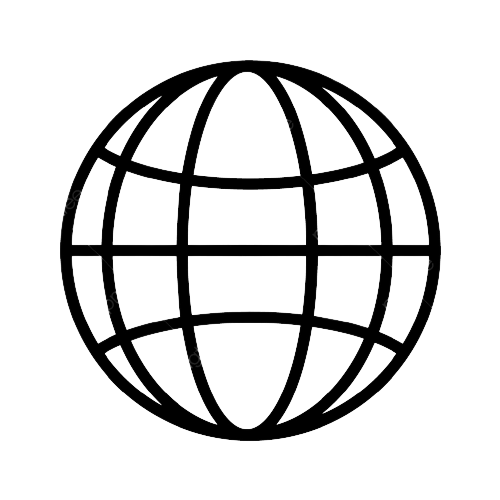
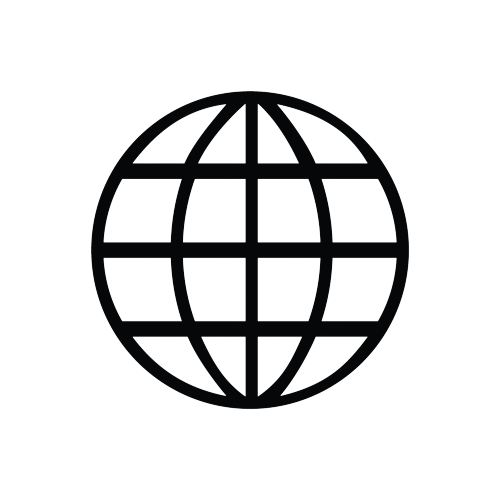
api called

Changed region(s): [[0.12, 0.12, 0.9, 0.9]]

diff --git a/lib/views/search/search_screen.dart b/lib/views/search/search_screen.dart
@@ -1,8 +1,8 @@
 import 'package:flutter/material.dart';
 import 'package:newsapp/controllers/search_controller.dart';
 import 'package:newsapp/utilities/constants/colors.dart';
-import 'package:newsapp/utilities/functions/print.dart';
 import 'package:provider/provider.dart';
+import 'package:ud_design/ud_design.dart';
 import '../../utilities/constants/themes.dart';
 import '../../utilities/functions/gap.dart';
 import '../../utilities/widgets/contianer_white.dart';
@@ -55,31 +55,26 @@ class SearchScreen extends StatelessWidget {
                       flex: 0,
                       child: InkWell(
                         onTap: () async {
-                          printer(controllerForSearcing.text);
-                          searchcontroller.getSearchData(
-                              searchTexts: controllerForSearcing.text);
-                          // if (controllerForSearcing.text.isNotEmpty) {
-                          //   await searchcontroller.getSearchData(
-                          //       searchTexts: controllerForSearcing.text);
-                          //   printer(searchcontroller.searchDataState);
-                          // } else {
-                          //   printer('hello');
-                          //   ScaffoldMessenger.of(context).showSnackBar(
-                          //     SnackBar(
-                          //       content: Padding(
-                          //         padding: EdgeInsets.symmetric(
-                          //           horizontal: UdDesign.pt(100),
-                          //         ),
-                          //         child: const Text('Search box is empty'),
-                          //       ),
-                          //       behavior: SnackBarBehavior.floating,
-                          //       backgroundColor: Colors.red,
-                          //       shape: RoundedRectangleBorder(
-                          //         borderRadius: BorderRadius.circular(24),
-                          //       ),
-                          //     ),
-                          //   );
-                          // }
+                          if (controllerForSearcing.text.isNotEmpty) {
+                            await searchcontroller.getSearchData(
+                                searchTexts: controllerForSearcing.text);
+                          } else {
+                            ScaffoldMessenger.of(context).showSnackBar(
+                              SnackBar(
+                                content: Padding(
+                                  padding: EdgeInsets.symmetric(
+                                    horizontal: UdDesign.pt(100),
+                                  ),
+                                  child: const Text('Search box is empty'),
+                                ),
+                                behavior: SnackBarBehavior.floating,
+                                backgroundColor: Colors.red,
+                                shape: RoundedRectangleBorder(
+                                  borderRadius: BorderRadius.circular(24),
+                                ),
+                              ),
+                            );
+                          }
                         },
                         child: const Text(
                           'Search',

diff --git a/lib/views/home/home_screen.dart b/lib/views/home/home_screen.dart
@@ -9,7 +9,6 @@ import 'package:newsapp/utilities/widgets/netimagecalling.dart';
 import 'package:newsapp/views/home/components/allpopularnewswebsite.dart';
 import 'package:provider/provider.dart';
 import 'package:ud_design/ud_design.dart';
-
 import '../../utilities/widgets/contianer_white.dart';
 
 class HomeScreen extends StatefulWidget {
@@ -106,21 +105,22 @@ class _HomeScreenState extends State<HomeScreen> {
                                       SizedBox(
                                         width: size.width,
                                         child: InkWell(
-                                            onTap: () {
-                                              printer(searchcontroller
-                                                  .homeImageIndex);
-                                            },
-                                            child: Padding(
-                                              padding: EdgeInsets.symmetric(
-                                                horizontal: UdDesign.pt(4),
-                                              ),
-                                              child: networkImagescall(
+                                          onTap: () {
+                                            printer(searchcontroller
+                                                .homeImageIndex);
+                                          },
+                                          child: Padding(
+                                            padding: EdgeInsets.symmetric(
+                                              horizontal: UdDesign.pt(4),
+                                            ),
+                                            child: networkImagescall(
                                                 src: searchcontroller
                                                     .searchDataLists
                                                     .articles![index]
                                                     .urlToImage!,
-                                              ),
-                                            )),
+                                                textofnoimage: Colors.white),
+                                          ),
+                                        ),
                                       ),
                                       Positioned(
                                         bottom: UdDesign.pt(15),

diff --git a/lib/utilities/widgets/netimagecalling.dart b/lib/utilities/widgets/netimagecalling.dart
@@ -2,7 +2,7 @@ import 'package:flutter/material.dart';
 
 import '../constants/colors.dart';
 
-networkImagescall({required src, dynamic color}) {
+networkImagescall({required src, dynamic color, textofnoimage}) {
   return Image.network(
     src,
     fit: BoxFit.cover,
@@ -22,8 +22,11 @@ networkImagescall({required src, dynamic color}) {
       );
     },
     errorBuilder: (context, exception, stackTrace) {
-      return const Center(
-        child: Text('No image found...'),
+      return Center(
+        child: Text(
+          'No image found...',
+          style: TextStyle(color: textofnoimage ?? Colors.black),
+        ),
       );
     },
   );

diff --git a/lib/views/root.dart b/lib/views/root.dart
@@ -62,7 +62,7 @@ class _RootScreenState extends State<RootScreen> {
             items: [
               BottomNavigationBarItem(
                   icon: iconwithdesignmethod(
-                    icon: Passets.worldIcon1,
+                    icon: Passets.worldIcon,
                     titleText: "World",
                     currentIndex: 0,
                   ),

diff --git a/lib/utilities/constants/assets.dart b/lib/utilities/constants/assets.dart
@@ -2,6 +2,5 @@ class Passets {
   static const homeIcon = 'images/home.png';
   static const searchIcon = 'images/searchicon.png';
   static const worldIcon = 'images/world.png';
-  static const worldIcon1 = 'images/world1.png';
   //world
 }
